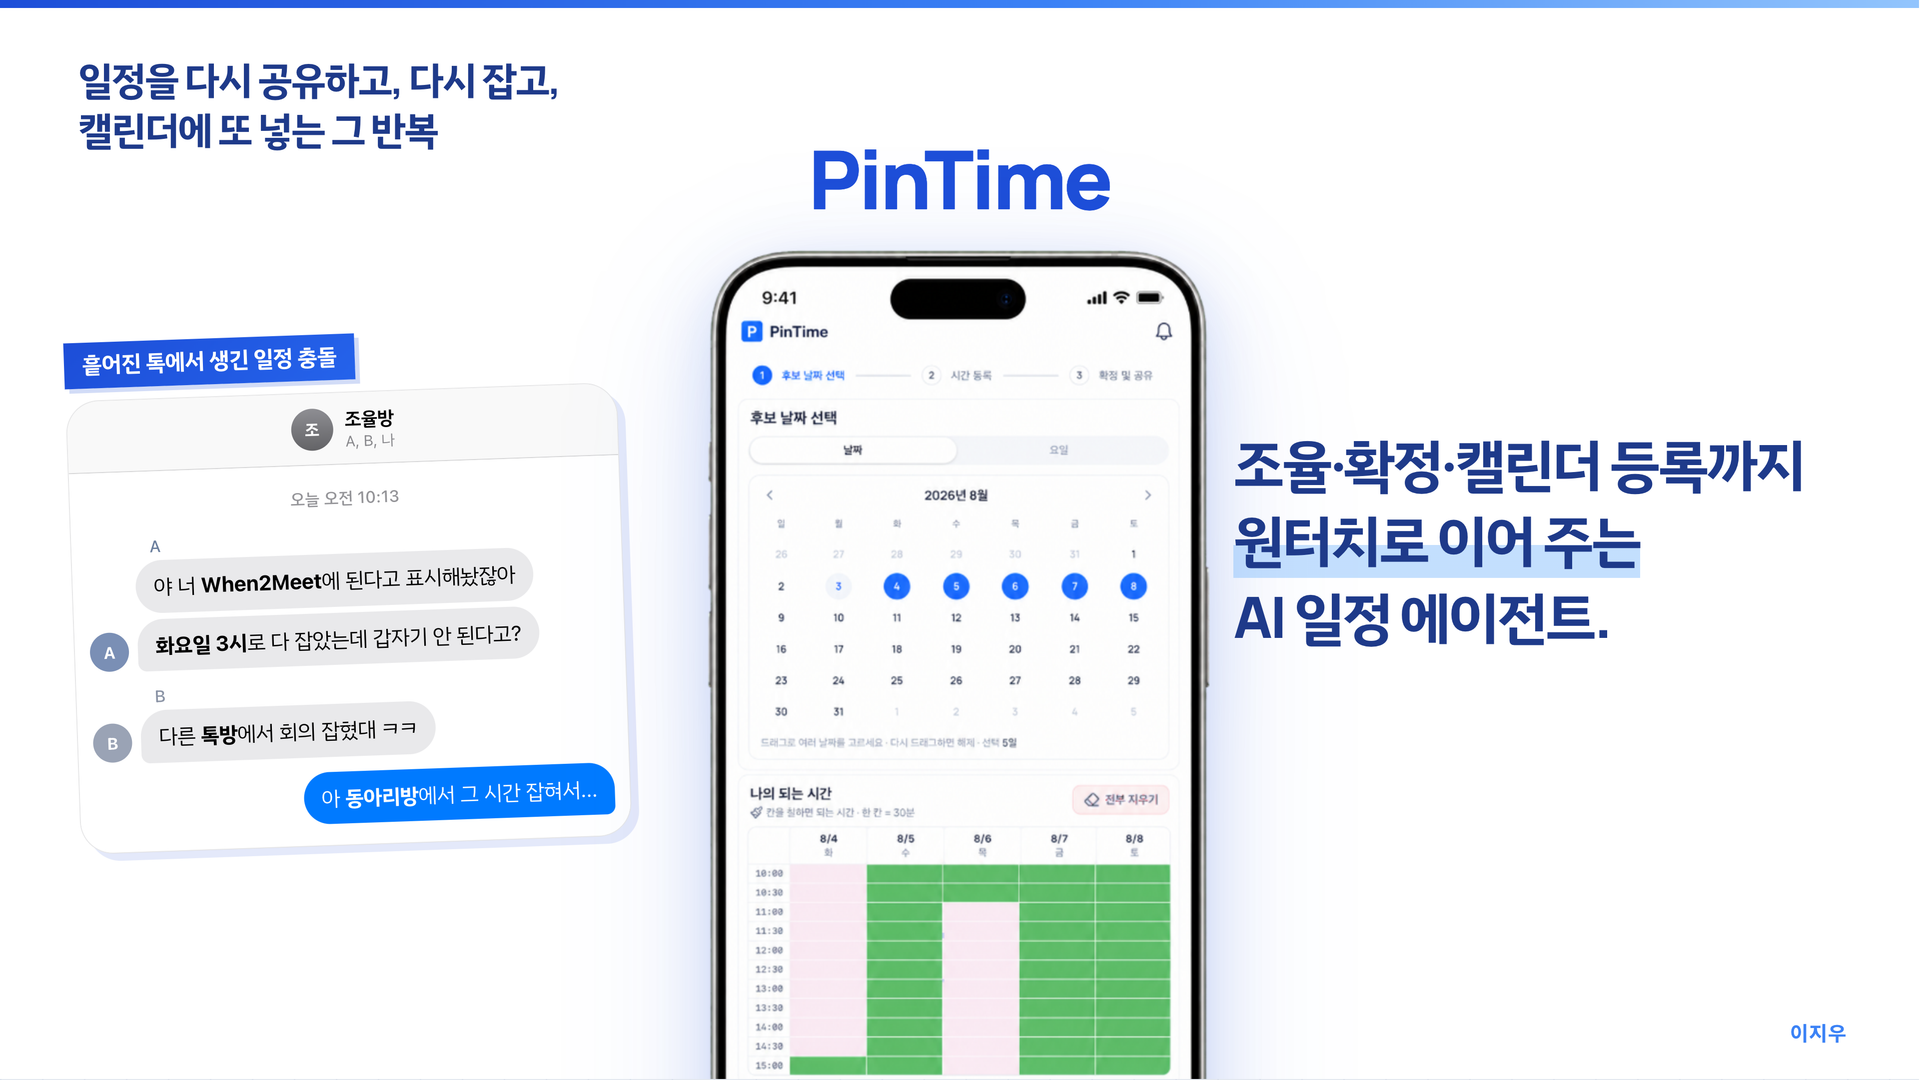
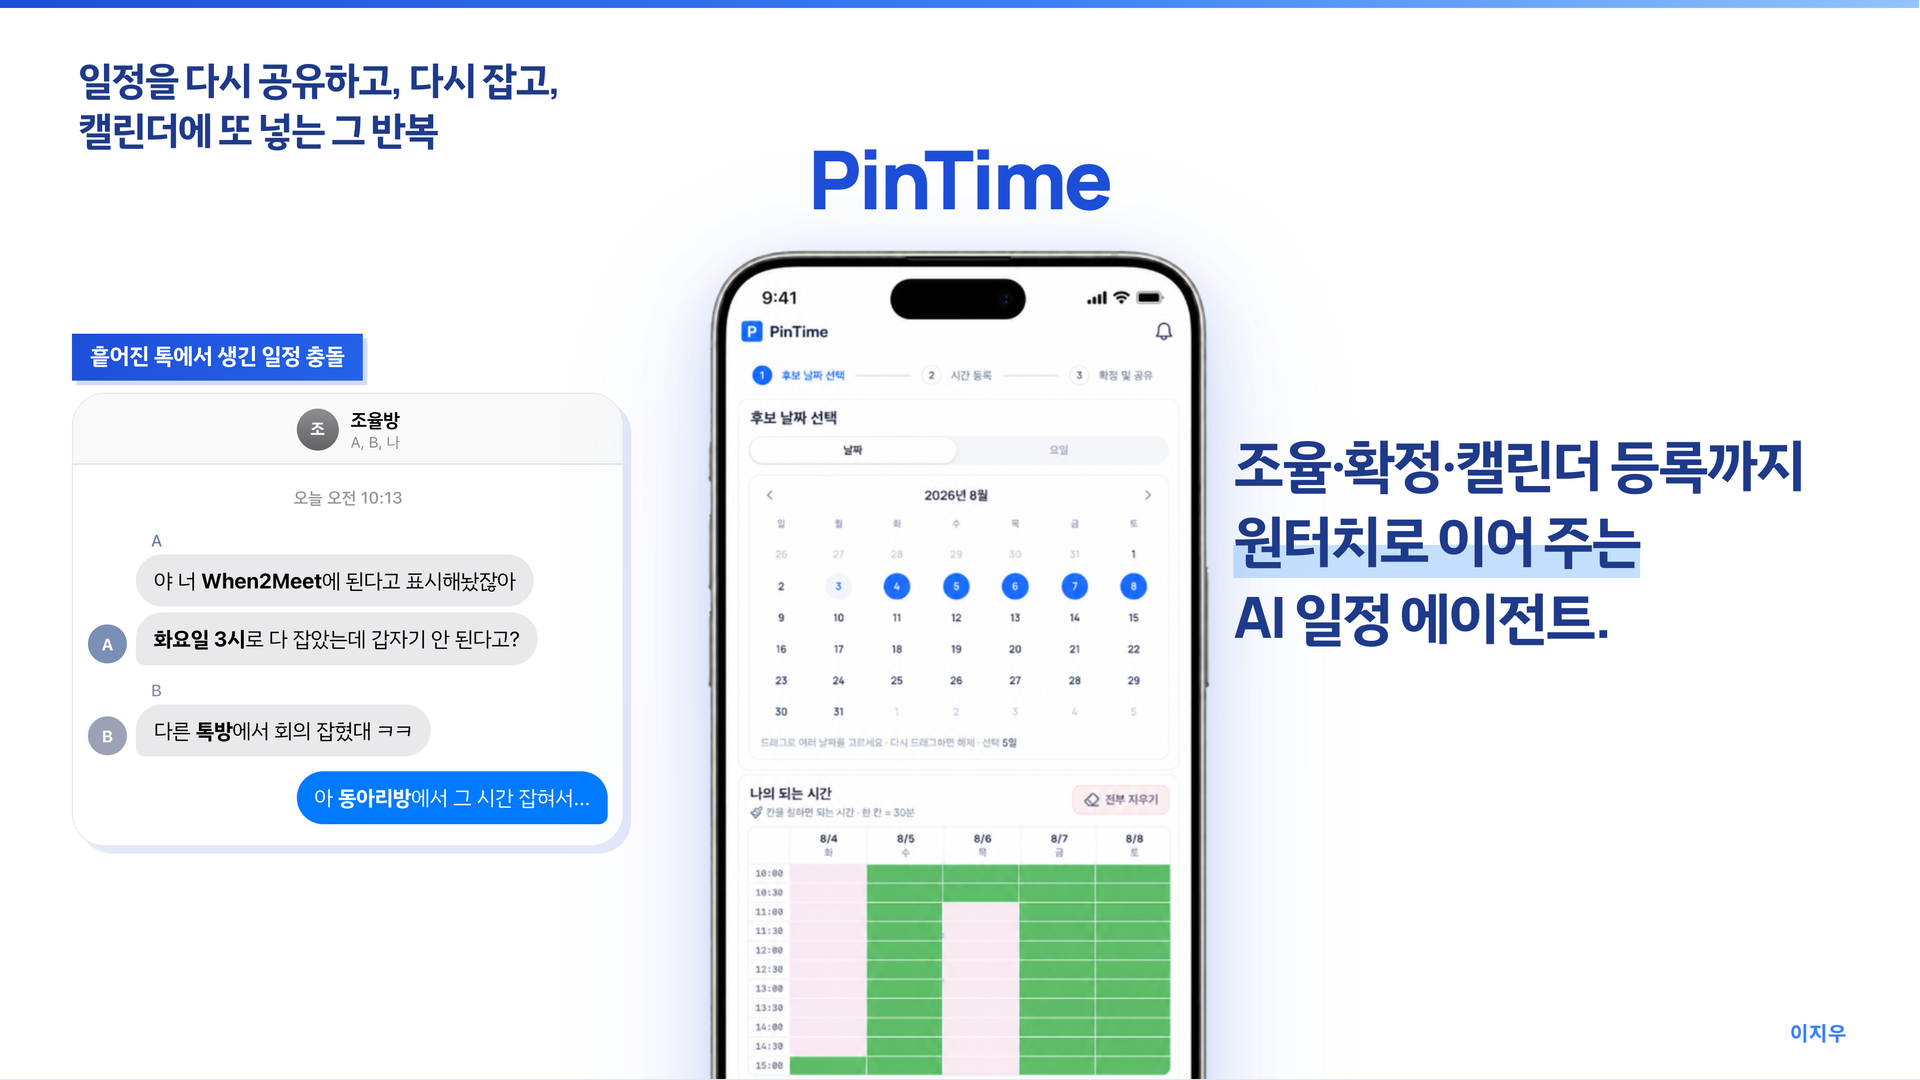
Remove cover chat tilt.

diff --git a/public/pitch.html b/public/pitch.html
@@ -1228,7 +1228,7 @@
         display: flex;
         flex-direction: column;
         gap: 8px;
-        transform: rotate(-2deg);
+        transform: none;
       }
 
       .cover-chat-wrap .chat-label {
